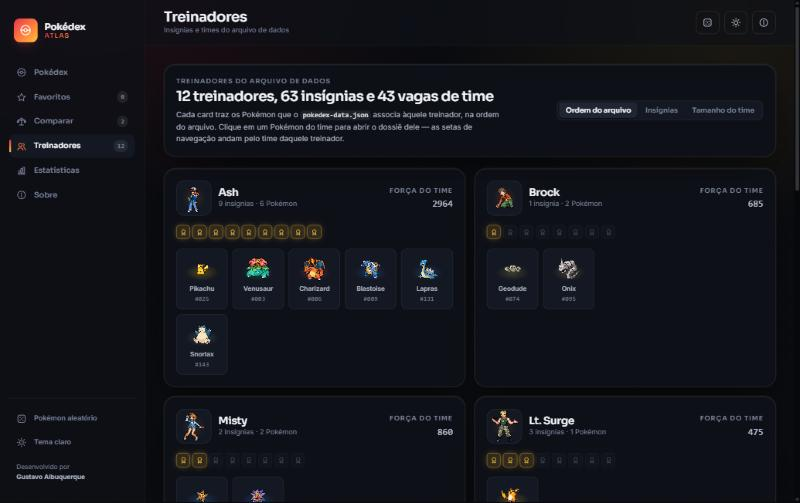
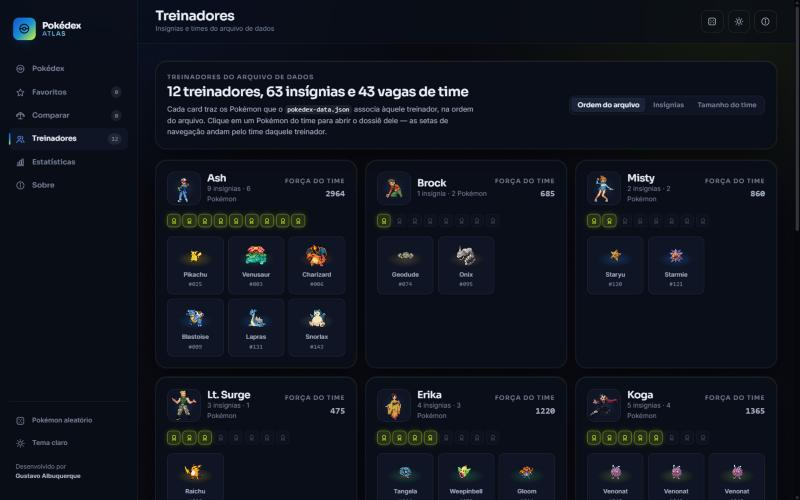
Nova identidade visual: preto, cobalto e lima
A marca passa a ser construida sobre tres cores, com papeis definidos:

  Midnight Black  #030407  principal   base e superficies
  Electric Cobalt #1558c9  secundaria  o que e interativo
  Acid Lime       #d4ff24  terciaria   o que merece destaque

A paleta dos 18 tipos de Pokemon NAO mudou: ela e semantica e exigida
pela atividade.

Contraste
- Todos os tokens de texto foram medidos na aplicacao rodando, nos dois
  temas, pela formula de luminancia da WCAG. Nenhum fica abaixo de
  4,5:1. As medidas estao na secao 15 do relatorio de testes.
- O cobalto cheio sobre o preto da 3,2:1, insuficiente para texto. O
  tema escuro usa um tom clareado (#5c9bff, 7,3:1) para texto e icones
  e guarda o cobalto cheio para preenchimentos.
- O lima sobre branco da 1,1:1. No tema claro o token de texto escurece
  para #52700a (5,7:1), enquanto o preenchimento continua lima com
  tinta preta por cima.

Dois defeitos encontrados durante a troca e corrigidos
- O botao primario usava texto branco sobre o degrade da marca, que
  agora termina em lima: 1,1:1 na ponta direita. Passou a ser cobalto
  solido com tinta branca (6,4:1).
- O texto recortado em degrade ("Atlas" e os numeros do painel) comecava
  no cobalto cheio, em 3,2:1. Ganhou uma rampa propria por tema,
  --brand-gradient-text, com todas as paradas acima de 4,5:1.

Tambem atualizados
- favicon.svg, meta theme-color e o hook que sincroniza a cor da barra
  do navegador com o tema.
- Imagem de reserva (sem-imagem.svg).
[…]

diff --git a/src/styles/tokens.css b/src/styles/tokens.css
@@ -73,10 +73,28 @@
   --sidenav-width-compact: 76px;
   --mobile-nav-height: 68px;
 
-  /* ---------- Marca (igual nos dois temas) ---------- */
-  --brand-crimson: #e8384f;
-  --brand-amber: #ffc53d;
-  --brand-gradient: linear-gradient(135deg, #e8384f 0%, #ff7a3d 52%, #ffc53d 100%);
+  /* ---------- Marca ----------
+     Três cores dão a identidade do produto:
+
+       Midnight Black  #030407  principal — a base sobre a qual tudo assenta
+       Electric Cobalt #1558c9  secundária — a cor do que é interativo
+       Acid Lime       #d4ff24  terciária — a cor do que merece destaque
+
+     As três são fixas. O que varia por tema é como cada uma é usada: o
+     cobalto puro lido como texto sobre o preto dá 3,2:1, abaixo do mínimo
+     da WCAG, então o tema escuro usa um tom mais claro dele para texto e
+     guarda o cobalto cheio para preenchimentos. O lima faz o caminho
+     inverso: brilha no escuro e precisa escurecer no tema claro.
+     ------------------------------------------------------------------ */
+  --brand-black: #030407;
+  --brand-cobalt: #1558c9;
+  --brand-lime: #d4ff24;
+  --brand-gradient: linear-gradient(135deg, #1558c9 0%, #1b8fd6 52%, #d4ff24 100%);
+
+  /* O degrade acima e para preenchimento. Como texto, o cobalto cheio
+     nao alcanca 4,5:1 em nenhum dos dois temas, entao o texto em degrade
+     usa uma rampa propria, redefinida por tema mais abaixo. */
+  --brand-gradient-text: var(--brand-gradient);
 }
 
 /* ==========================================================================
@@ -86,38 +104,50 @@
 :root[data-theme="dark"] {
   color-scheme: dark;
 
-  --bg-base: #07080c;
-  --bg-deep: #04050a;
-  --surface-1: #0e1017;
-  --surface-2: #141822;
-  --surface-3: #1b202c;
-  --surface-raised: #1f2533;
-  --surface-glass: rgb(14 16 23 / 72%);
+  /* As superfícies sobem a partir do Midnight Black, puxadas um grau para o
+     azul do cobalto a cada degrau: a elevação se lê sem precisar de borda. */
+  --bg-deep: #030407;
+  --bg-base: #05070d;
+  --surface-1: #0a0e18;
+  --surface-2: #0f1524;
+  --surface-3: #151d30;
+  --surface-raised: #1a2338;
+  --surface-glass: rgb(10 14 24 / 72%);
 
   --border-subtle: rgb(255 255 255 / 7%);
   --border-default: rgb(255 255 255 / 11%);
   --border-strong: rgb(255 255 255 / 18%);
 
-  --text-primary: #f1f3f8;
-  --text-secondary: #aeb6c6;
-  --text-muted: #79819a;
+  --text-primary: #eef2fa;
+  --text-secondary: #abb5ca;
+  --text-muted: #7a849d;
   --text-faint: #7b8398;
-  --text-inverse: #0a0b10;
+  --text-inverse: #030407;
 
-  --accent: #ff7a3d;
-  --accent-soft: rgb(255 122 61 / 16%);
-  --accent-ink: #14161c;
+  /* Cobalto clareado: 7,4:1 sobre o preto, legível como texto. */
+  --accent: #5c9bff;
+  --accent-strong: #1558c9;
+  --accent-soft: rgb(21 88 201 / 26%);
+  --accent-ink: #ffffff;
+  --brand-gradient-text: linear-gradient(135deg, #5c9bff 0%, #7fd4f0 48%, #d4ff24 100%);
+
+  /* Lima no escuro: 17,7:1, o maior contraste da paleta. */
+  --highlight: #d4ff24;
+  --highlight-fill: #d4ff24;
+  --highlight-ink: #030407;
 
   --success: #35d08a;
   --warning: #ffc53d;
   --danger: #ff5b6e;
 
-  --focus-ring: #7aa2ff;
+  /* O foco é lima de propósito: precisa aparecer inclusive em cima do que
+     já é cobalto, e nenhum componente usa lima como fundo. */
+  --focus-ring: #d4ff24;
 
-  --shadow-sm: 0 1px 2px rgb(0 0 0 / 55%);
-  --shadow-md: 0 8px 24px -8px rgb(0 0 0 / 70%);
-  --shadow-lg: 0 24px 60px -18px rgb(0 0 0 / 80%);
-  --shadow-glow: 0 0 0 1px rgb(255 255 255 / 6%), 0 18px 48px -22px rgb(0 0 0 / 90%);
+  --shadow-sm: 0 1px 2px rgb(0 0 0 / 60%);
+  --shadow-md: 0 8px 24px -8px rgb(0 0 0 / 74%);
+  --shadow-lg: 0 24px 60px -18px rgb(0 0 0 / 84%);
+  --shadow-glow: 0 0 0 1px rgb(255 255 255 / 6%), 0 18px 48px -22px rgb(0 0 0 / 92%);
 
   /* Brilho interno que dá o "rim light" dos cards no escuro */
   --rim-light: inset 0 1px 0 rgb(255 255 255 / 7%);
@@ -127,7 +157,7 @@
     rgb(255 255 255 / 0%) 38%
   );
   --aura-strength: 0.5;
-  --art-drop-shadow: drop-shadow(0 18px 24px rgb(0 0 0 / 55%));
+  --art-drop-shadow: drop-shadow(0 18px 24px rgb(0 0 0 / 60%));
 }
 
 /* ==========================================================================
@@ -136,38 +166,47 @@
 :root[data-theme="light"] {
   color-scheme: light;
 
-  --bg-base: #f4f5f8;
-  --bg-deep: #e9ebf1;
+  --bg-deep: #e7eaf2;
+  --bg-base: #f3f5fa;
   --surface-1: #ffffff;
-  --surface-2: #f7f8fb;
-  --surface-3: #eef0f6;
+  --surface-2: #f6f8fc;
+  --surface-3: #ecf0f8;
   --surface-raised: #ffffff;
   --surface-glass: rgb(255 255 255 / 80%);
 
-  --border-subtle: rgb(14 18 32 / 7%);
-  --border-default: rgb(14 18 32 / 11%);
-  --border-strong: rgb(14 18 32 / 18%);
+  --border-subtle: rgb(3 4 7 / 8%);
+  --border-default: rgb(3 4 7 / 12%);
+  --border-strong: rgb(3 4 7 / 20%);
 
-  --text-primary: #10131c;
-  --text-secondary: #474f63;
-  --text-muted: #6b738a;
+  --text-primary: #030407;
+  --text-secondary: #434c61;
+  --text-muted: #646d85;
   --text-faint: #6a7284;
   --text-inverse: #ffffff;
 
-  --accent: #d9452b;
-  --accent-soft: rgb(217 69 43 / 10%);
+  /* No claro o cobalto cheio já é legível: 6,4:1 sobre o branco. */
+  --accent: #1558c9;
+  --accent-strong: #1558c9;
+  --accent-soft: rgb(21 88 201 / 12%);
   --accent-ink: #ffffff;
+  --brand-gradient-text: linear-gradient(135deg, #1558c9 0%, #176a9e 50%, #52700a 100%);
 
-  --success: #107a52;
-  --warning: #9a6a00;
+  /* O lima puro sobre branco dá 1,1:1. Como texto ele escurece; como
+     preenchimento continua sendo o lima, com tinta preta por cima. */
+  --highlight: #52700a;
+  --highlight-fill: #d4ff24;
+  --highlight-ink: #030407;
+
+  --success: #0f7a50;
+  --warning: #8a5d00;
   --danger: #c22a3c;
 
-  --focus-ring: #2a5bd7;
+  --focus-ring: #1558c9;
 
-  --shadow-sm: 0 1px 2px rgb(16 19 28 / 7%);
-  --shadow-md: 0 10px 26px -12px rgb(16 19 28 / 22%);
-  --shadow-lg: 0 28px 64px -24px rgb(16 19 28 / 28%);
-  --shadow-glow: 0 0 0 1px rgb(16 19 28 / 5%), 0 18px 40px -24px rgb(16 19 28 / 25%);
+  --shadow-sm: 0 1px 2px rgb(3 4 7 / 8%);
+  --shadow-md: 0 10px 26px -12px rgb(3 4 7 / 24%);
+  --shadow-lg: 0 28px 64px -24px rgb(3 4 7 / 30%);
+  --shadow-glow: 0 0 0 1px rgb(3 4 7 / 6%), 0 18px 40px -24px rgb(3 4 7 / 26%);
 
   --rim-light: inset 0 1px 0 rgb(255 255 255 / 90%);
   --card-sheen: linear-gradient(
@@ -176,5 +215,5 @@
     rgb(255 255 255 / 0%) 46%
   );
   --aura-strength: 0.32;
-  --art-drop-shadow: drop-shadow(0 14px 18px rgb(16 19 28 / 22%));
+  --art-drop-shadow: drop-shadow(0 14px 18px rgb(3 4 7 / 24%));
 }

diff --git a/src/components/layout/AppShell.css b/src/components/layout/AppShell.css
@@ -59,10 +59,10 @@
   place-items: center;
   width: 2.5rem;
   height: 2.5rem;
-  color: #fff;
+  color: var(--brand-black);
   background: var(--brand-gradient);
   border-radius: var(--radius-sm);
-  box-shadow: 0 8px 20px -10px rgb(232 56 79 / 85%);
+  box-shadow: 0 8px 20px -10px rgb(21 88 201 / 85%);
 }
 
 .shell__brand-text {
@@ -86,7 +86,7 @@
   font-weight: 600;
   text-transform: uppercase;
   letter-spacing: var(--tracking-caps);
-  background: var(--brand-gradient);
+  background: var(--brand-gradient-text);
   -webkit-background-clip: text;
   background-clip: text;
   color: transparent;
@@ -228,7 +228,7 @@
   place-items: center;
   width: 2.3rem;
   height: 2.3rem;
-  color: #fff;
+  color: var(--brand-black);
   background: var(--brand-gradient);
   border-radius: var(--radius-sm);
 }
@@ -317,7 +317,7 @@
   inset-inline-end: -3px;
   width: 6px;
   height: 6px;
-  background: var(--brand-amber);
+  background: var(--highlight-fill);
   border-radius: var(--radius-full);
 }
 

diff --git a/src/components/ui/FavoriteButton.css b/src/components/ui/FavoriteButton.css
@@ -24,16 +24,16 @@
 }
 
 .favorite:hover {
-  color: var(--brand-amber);
-  border-color: color-mix(in srgb, var(--brand-amber) 48%, transparent);
+  color: var(--highlight);
+  border-color: color-mix(in srgb, var(--highlight) 48%, transparent);
   transform: scale(1.08);
 }
 
 .favorite.is-active {
-  color: var(--brand-amber);
-  background: color-mix(in srgb, var(--brand-amber) 15%, transparent);
-  border-color: color-mix(in srgb, var(--brand-amber) 52%, transparent);
-  box-shadow: 0 0 16px -4px color-mix(in srgb, var(--brand-amber) 60%, transparent);
+  color: var(--highlight);
+  background: color-mix(in srgb, var(--highlight) 15%, transparent);
+  border-color: color-mix(in srgb, var(--highlight) 52%, transparent);
+  box-shadow: 0 0 16px -4px color-mix(in srgb, var(--highlight) 60%, transparent);
 }
 
 .favorite.is-active:active {

diff --git a/src/components/ui/Button.css b/src/components/ui/Button.css
@@ -41,16 +41,16 @@
 
 /* Preenchido com a marca: a ação principal de cada tela. */
 .btn--primary {
-  color: #fff;
-  background: var(--brand-gradient);
+  color: var(--accent-ink);
+  background: var(--accent-strong);
   border-color: transparent;
-  box-shadow: 0 8px 22px -12px rgb(232 56 79 / 85%);
+  box-shadow: 0 8px 22px -12px rgb(21 88 201 / 85%);
 }
 
 .btn--primary:hover:not(:disabled) {
-  background: var(--brand-gradient);
-  filter: brightness(1.07);
-  box-shadow: 0 12px 28px -12px rgb(232 56 79 / 95%);
+  background: var(--accent-strong);
+  filter: brightness(1.14);
+  box-shadow: 0 12px 28px -12px rgb(21 88 201 / 95%);
 }
 
 .btn--ghost {

diff --git a/src/styles/base.css b/src/styles/base.css
@@ -42,12 +42,12 @@ body::before {
   background:
     radial-gradient(
       62rem 42rem at 12% -8%,
-      rgb(232 56 79 / calc(var(--aura-strength) * 0.22)),
+      rgb(21 88 201 / calc(var(--aura-strength) * 0.3)),
       transparent 62%
     ),
     radial-gradient(
       52rem 38rem at 92% 4%,
-      rgb(255 197 61 / calc(var(--aura-strength) * 0.16)),
+      rgb(212 255 36 / calc(var(--aura-strength) * 0.12)),
       transparent 60%
     );
 }
@@ -171,7 +171,7 @@ h4 {
 }
 
 .brand-text {
-  background: var(--brand-gradient);
+  background: var(--brand-gradient-text);
   -webkit-background-clip: text;
   background-clip: text;
   color: transparent;

diff --git a/src/components/compare/CompareTable.css b/src/components/compare/CompareTable.css
@@ -53,9 +53,9 @@
 }
 
 .compare-table__score.is-winner .compare-table__score-value {
-  color: var(--brand-amber);
-  background: color-mix(in srgb, var(--brand-amber) 12%, transparent);
-  border-color: color-mix(in srgb, var(--brand-amber) 40%, transparent);
+  color: var(--highlight);
+  background: color-mix(in srgb, var(--highlight) 12%, transparent);
+  border-color: color-mix(in srgb, var(--highlight) 40%, transparent);
 }
 
 .compare-table__verdict {
@@ -70,7 +70,7 @@
 }
 
 .compare-table__verdict .icon {
-  color: var(--brand-amber);
+  color: var(--highlight);
 }
 
 /* ---------- Tabela ---------- */

diff --git a/src/components/trainers/TrainerCard.css b/src/components/trainers/TrainerCard.css
@@ -118,10 +118,10 @@
 }
 
 .trainer-card__pip.is-on {
-  color: var(--brand-amber);
-  background: color-mix(in srgb, var(--brand-amber) 14%, transparent);
-  border-color: color-mix(in srgb, var(--brand-amber) 42%, transparent);
-  box-shadow: 0 0 12px -4px color-mix(in srgb, var(--brand-amber) 70%, transparent);
+  color: var(--highlight);
+  background: color-mix(in srgb, var(--highlight) 14%, transparent);
+  border-color: color-mix(in srgb, var(--highlight) 42%, transparent);
+  box-shadow: 0 0 12px -4px color-mix(in srgb, var(--highlight) 70%, transparent);
   opacity: 1;
 }
 

diff --git a/src/views/PokedexView.css b/src/views/PokedexView.css
@@ -18,7 +18,7 @@
   background:
     linear-gradient(
       120deg,
-      color-mix(in srgb, var(--brand-crimson) 11%, transparent),
+      color-mix(in srgb, var(--brand-cobalt) 11%, transparent),
       transparent 46%
     ),
     var(--surface-1);
@@ -36,7 +36,7 @@
   pointer-events: none;
   background: radial-gradient(
     closest-side,
-    color-mix(in srgb, var(--brand-amber) 22%, transparent),
+    color-mix(in srgb, var(--brand-lime) 22%, transparent),
     transparent 72%
   );
   filter: blur(8px);

diff --git a/src/components/compare/CompareSlot.css b/src/components/compare/CompareSlot.css
@@ -60,9 +60,9 @@
   font-weight: 700;
   text-transform: uppercase;
   letter-spacing: 0.08em;
-  color: var(--brand-amber);
-  background: color-mix(in srgb, var(--brand-amber) 14%, transparent);
-  border: 1px solid color-mix(in srgb, var(--brand-amber) 42%, transparent);
+  color: var(--highlight);
+  background: color-mix(in srgb, var(--highlight) 14%, transparent);
+  border: 1px solid color-mix(in srgb, var(--highlight) 42%, transparent);
   border-radius: var(--radius-full);
 }
 

diff --git a/src/hooks/useTheme.js b/src/hooks/useTheme.js
@@ -26,7 +26,7 @@ export default function useTheme() {
     root.style.colorScheme = theme;
     document
       .querySelector('meta[name="theme-color"]')
-      ?.setAttribute("content", theme === "light" ? "#f4f5f8" : "#07080c");
+      ?.setAttribute("content", theme === "light" ? "#f3f5fa" : "#030407");
   }, [theme]);
 
   const toggleTheme = useCallback(() => {

diff --git a/index.html b/index.html
@@ -11,7 +11,7 @@
     />
     <meta name="author" content="Gustavo Albuquerque" />
     <meta name="color-scheme" content="dark light" />
-    <meta name="theme-color" content="#07080c" />
+    <meta name="theme-color" content="#030407" />
 
     <link rel="icon" type="image/svg+xml" href="./favicon.svg" />
 

diff --git a/src/views/AboutView.css b/src/views/AboutView.css
@@ -30,7 +30,7 @@
   pointer-events: none;
   background: radial-gradient(
     closest-side,
-    color-mix(in srgb, var(--brand-crimson) 20%, transparent),
+    color-mix(in srgb, var(--brand-cobalt) 20%, transparent),
     transparent 72%
   );
   filter: blur(6px);
